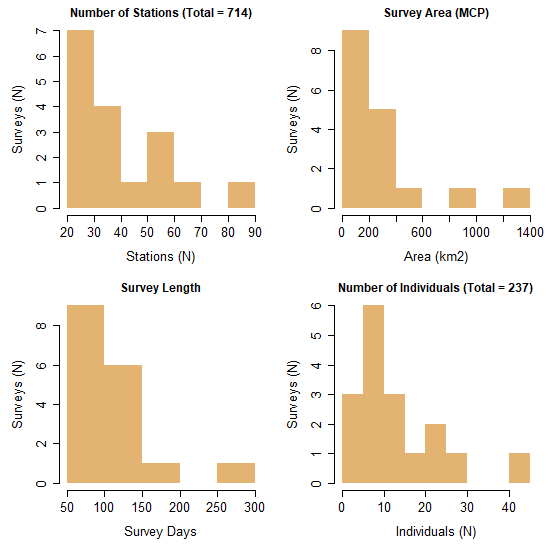
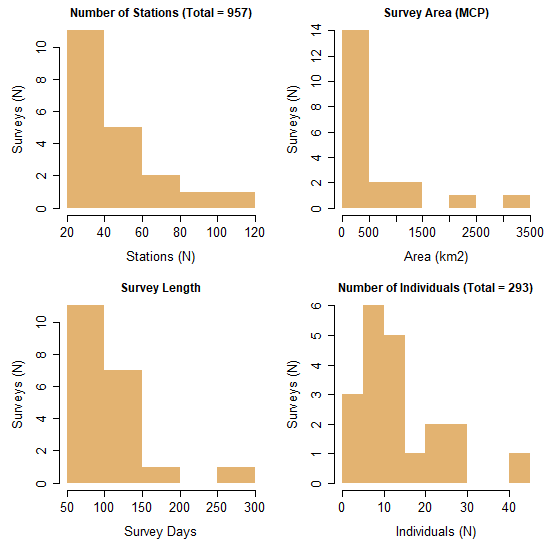
Data page updated

diff --git a/data.md b/data.md
@@ -5,11 +5,11 @@ use_fontawesome: true
 ---
 
 <h3>Summary Statistics</h3>
-<h6 class="italic"> Updated Fri Sep 06 2019 </h6>
+<h6 class="italic"> Updated Sat Sep 07 2019 </h6>
 <br>
   <div class="row content-row"> 
     <div class="col-12 col-sm-6 image-wrapper">
-        <h5 class="italic">Submitted survey locations:  17 </h5>
+        <h5 class="italic">Submitted survey locations:  20 </h5>
         <img src="{{ site.baseurl }}/images/map.png" width="550" style="border:1px solid #cccccc">
     </div>
     <div class="col-12 col-sm-6 image-wrapper">
